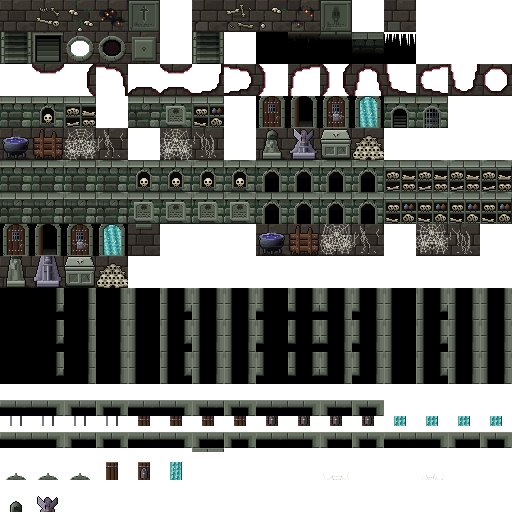
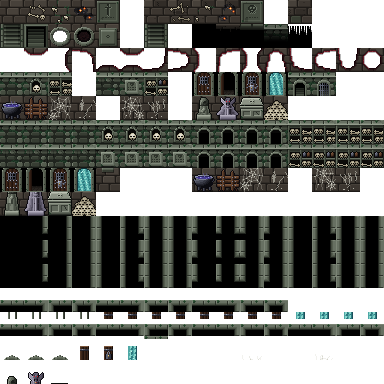
흡혈귀의 성·지하 묘지 타일을 24x24로 다시 찍음 (원작 16칸과 덜 어긋나게)
- 32x32는 원작 도트와 이질감이 커서, 칸당 24x24(1.5배)로 낮추고 원작처럼 또렷한 줄눈·윤곽선에
  단계 명암을 넣는 방식으로 바닥·카펫·벽·문·장식·물건을 모두 새로 그림
- 시트 폭으로 칸 픽셀 수를 알아내 16 크기로 맞춤 (24칸 시트 → 2/3 크기)
- 핏물 그림도 같은 밀도(96x96, 칸 단위당 1.5텍셀)로 다시 그림, 보스 방 달빛 창도 24칸으로

Claude-Session: https://claude.ai/code/session_01APSKFNB8xpLfNtbCfNBsyA

diff --git a/core/src/main/java/com/shatteredpixel/shatteredpixeldungeon/tiles/DungeonTilemap.java b/core/src/main/java/com/shatteredpixel/shatteredpixeldungeon/tiles/DungeonTilemap.java
@@ -39,15 +39,15 @@ public abstract class DungeonTilemap extends Tilemap {
 	protected int[] map;
 
 	public DungeonTilemap(String tex) {
-		super(tex, new TextureFilm( tex, SIZE * texScale( tex ), SIZE * texScale( tex ) ) );
-		//모드: 칸 하나를 더 촘촘한 도트(32x32 등)로 그린 시트는 그만큼 줄여서 16 크기 칸에 그림
-		int k = texScale( tex );
-		if (k > 1) scale.set( 1f / k );
+		super(tex, new TextureFilm( tex, tilePixels( tex ), tilePixels( tex ) ) );
+		//모드: 칸 하나를 더 촘촘한 도트(24x24 등)로 그린 시트는 그만큼 줄여서 16 크기 칸에 그림
+		int px = tilePixels( tex );
+		if (px != SIZE) scale.set( SIZE / (float)px );
 	}
 
-	//타일 시트는 가로 16칸. 시트 폭이 256의 몇 배인지 (256 → 1, 512 → 2)
-	public static int texScale( String tex ){
-		return Math.max( 1, TextureCache.get( tex ).width / (SIZE * 16) );
+	//타일 시트는 가로 16칸. 칸 하나의 픽셀 수 (256 폭 → 16, 384 폭 → 24)
+	public static int tilePixels( String tex ){
+		return Math.max( SIZE, TextureCache.get( tex ).width / 16 );
 	}
 
 	@Override

diff --git a/core/src/main/java/com/shatteredpixel/shatteredpixeldungeon/levels/VampireCastleBossLevel.java b/core/src/main/java/com/shatteredpixel/shatteredpixeldungeon/levels/VampireCastleBossLevel.java
@@ -101,8 +101,8 @@ public class VampireCastleBossLevel extends Level {
 	}
 
 	@Override
-	public int waterTexScale() {
-		return 2;
+	public float waterTexScale() {
+		return 1.5f;
 	}
 
 	@Override
@@ -391,19 +391,19 @@ public class VampireCastleBossLevel extends Level {
 	public Group addWallVisuals() {
 		super.addWallVisuals();
 		for (int wx : WINDOWS){
-			//32x32로 촘촘히 찍은 창 (벽 타일과 같은 해상도), 핏빛 달이 뜨면 붉은 창으로
-			Image win = new Image( Assets.Sprites.VC_WINDOW_HD, 0, 0, 32, 32 ){
+			//24x24로 찍은 창 (벽 타일과 같은 해상도), 핏빛 달이 뜨면 붉은 창으로
+			Image win = new Image( Assets.Sprites.VC_WINDOW_HD, 0, 0, 24, 24 ){
 				private boolean red = false;
 				@Override
 				public void update() {
 					super.update();
 					if (red != bloodMoon){
 						red = bloodMoon;
-						frame( red ? 32 : 0, 0, 32, 32 );
+						frame( red ? 24 : 0, 0, 24, 24 );
 					}
 				}
 			};
-			win.scale.set( 0.5f );
+			win.scale.set( 16f / 24f );
 			wallVisuals.add( place( win, wx + width() ) );
 		}
 		return wallVisuals;

diff --git a/core/src/main/java/com/shatteredpixel/shatteredpixeldungeon/scenes/AlchemyScene.java b/core/src/main/java/com/shatteredpixel/shatteredpixeldungeon/scenes/AlchemyScene.java
@@ -102,7 +102,7 @@ public class AlchemyScene extends PixelScene {
 	
 	private Emitter lowerBubbles;
 	private SkinnedBlock water;
-	private int waterK = 1;
+	private float waterK = 1f;
 
 	private Image energyIcon;
 	private RenderedTextBlock energyLeft;
@@ -147,7 +147,7 @@ public class AlchemyScene extends PixelScene {
 		water.autoAdjust = true;
 		//모드: 촘촘히 찍은 물 그림은 그만큼 줄여 깜
 		waterK = Dungeon.level.waterTexScale();
-		if (waterK > 1) water.scale( 1f / waterK, 1f / waterK );
+		if (waterK != 1f) water.scale( 1f / waterK, 1f / waterK );
 		add(water);
 		
 		Image im = new Image(TextureCache.createGradient(0x66000000, 0x88000000, 0xAA000000, 0xCC000000, 0xFF000000));

diff --git a/core/src/main/java/com/shatteredpixel/shatteredpixeldungeon/scenes/GameScene.java b/core/src/main/java/com/shatteredpixel/shatteredpixeldungeon/scenes/GameScene.java
@@ -164,7 +164,7 @@ public class GameScene extends PixelScene {
 	static GameScene scene;
 
 	private SkinnedBlock water;
-	private int waterK = 1;
+	private float waterK = 1f;
 	private DungeonTerrainTilemap tiles;
 	private GridTileMap visualGrid;
 	private WallOcclusionTilemap occlusion;
@@ -276,7 +276,7 @@ public class GameScene extends PixelScene {
 		water.autoAdjust = true;
 		//모드: 촘촘히 찍은 물 그림은 그만큼 줄여 깔고, 흐르는 빠르기는 원작과 같게
 		waterK = Dungeon.level.waterTexScale();
-		if (waterK > 1) water.scale( 1f / waterK, 1f / waterK );
+		if (waterK != 1f) water.scale( 1f / waterK, 1f / waterK );
 		terrain.add( water );
 
 		ripples = new Group();

diff --git a/core/src/main/java/com/shatteredpixel/shatteredpixeldungeon/levels/features/Chasm.java b/core/src/main/java/com/shatteredpixel/shatteredpixeldungeon/levels/features/Chasm.java
@@ -56,9 +56,9 @@ public class Chasm implements Hero.Doom {
 
 	//낭떠러지 벽 칸 그림 (세밀한 타일 시트면 그만큼 크게 잘라 16 크기로 줄임)
 	private static Image chasmIcon(){
-		int k = com.shatteredpixel.shatteredpixeldungeon.tiles.DungeonTilemap.texScale( Dungeon.level.tilesTex() );
-		Image icon = new Image( Dungeon.level.tilesTex(), 176 * k, 16 * k, 16 * k, 16 * k );
-		icon.scale.set( 1f / k );
+		int px = com.shatteredpixel.shatteredpixeldungeon.tiles.DungeonTilemap.tilePixels( Dungeon.level.tilesTex() );
+		Image icon = new Image( Dungeon.level.tilesTex(), 11 * px, px, px, px );
+		icon.scale.set( 16f / px );
 		return icon;
 	}
 	

diff --git a/core/src/main/java/com/shatteredpixel/shatteredpixeldungeon/windows/WndInfoCell.java b/core/src/main/java/com/shatteredpixel/shatteredpixeldungeon/windows/WndInfoCell.java
@@ -75,9 +75,10 @@ public class WndInfoCell extends Window {
 
 			if (tile == Terrain.WATER) {
 				Image water = new Image(Dungeon.level.waterTex());
-				int k = Dungeon.level.waterTexScale();
-				water.frame(0, 0, DungeonTilemap.SIZE * k, DungeonTilemap.SIZE * k);
-				water.scale.set( 1f / k );
+				float k = Dungeon.level.waterTexScale();
+				int wpx = Math.round( DungeonTilemap.SIZE * k );
+				water.frame(0, 0, wpx, wpx);
+				water.scale.set( DungeonTilemap.SIZE / (float)wpx );
 				return water;
 			} else {
 				return DungeonTerrainTilemap.tile(cell, tile);

diff --git a/core/src/main/java/com/shatteredpixel/shatteredpixeldungeon/levels/Level.java b/core/src/main/java/com/shatteredpixel/shatteredpixeldungeon/levels/Level.java
@@ -529,9 +529,9 @@ public abstract class Level implements Bundlable {
 		return null;
 	}
 
-	//모드: 물 그림 텍셀이 칸 단위(16분의 1칸) 하나에 몇 개인지. 원작 물은 1, 촘촘히 찍은 물(흡혈귀의 성 핏물)은 2
-	public int waterTexScale() {
-		return 1;
+	//모드: 물 그림 텍셀이 칸 단위(16분의 1칸) 하나에 몇 개인지. 원작 물은 1, 촘촘히 찍은 물(흡혈귀의 성 핏물)은 1.5
+	public float waterTexScale() {
+		return 1f;
 	}
 	
 	abstract protected boolean build();

diff --git a/core/src/main/java/com/shatteredpixel/shatteredpixeldungeon/levels/VampireCastleLevel.java b/core/src/main/java/com/shatteredpixel/shatteredpixeldungeon/levels/VampireCastleLevel.java
@@ -56,10 +56,10 @@ public class VampireCastleLevel extends CavesLevel {
 		return Assets.Environment.WATER_BLOOD;
 	}
 
-	//핏물은 타일과 같은 32x32 밀도로 찍음
+	//핏물은 타일과 같은 24x24 밀도로 찍음
 	@Override
-	public int waterTexScale() {
-		return 2;
+	public float waterTexScale() {
+		return 1.5f;
 	}
 
 	@Override
